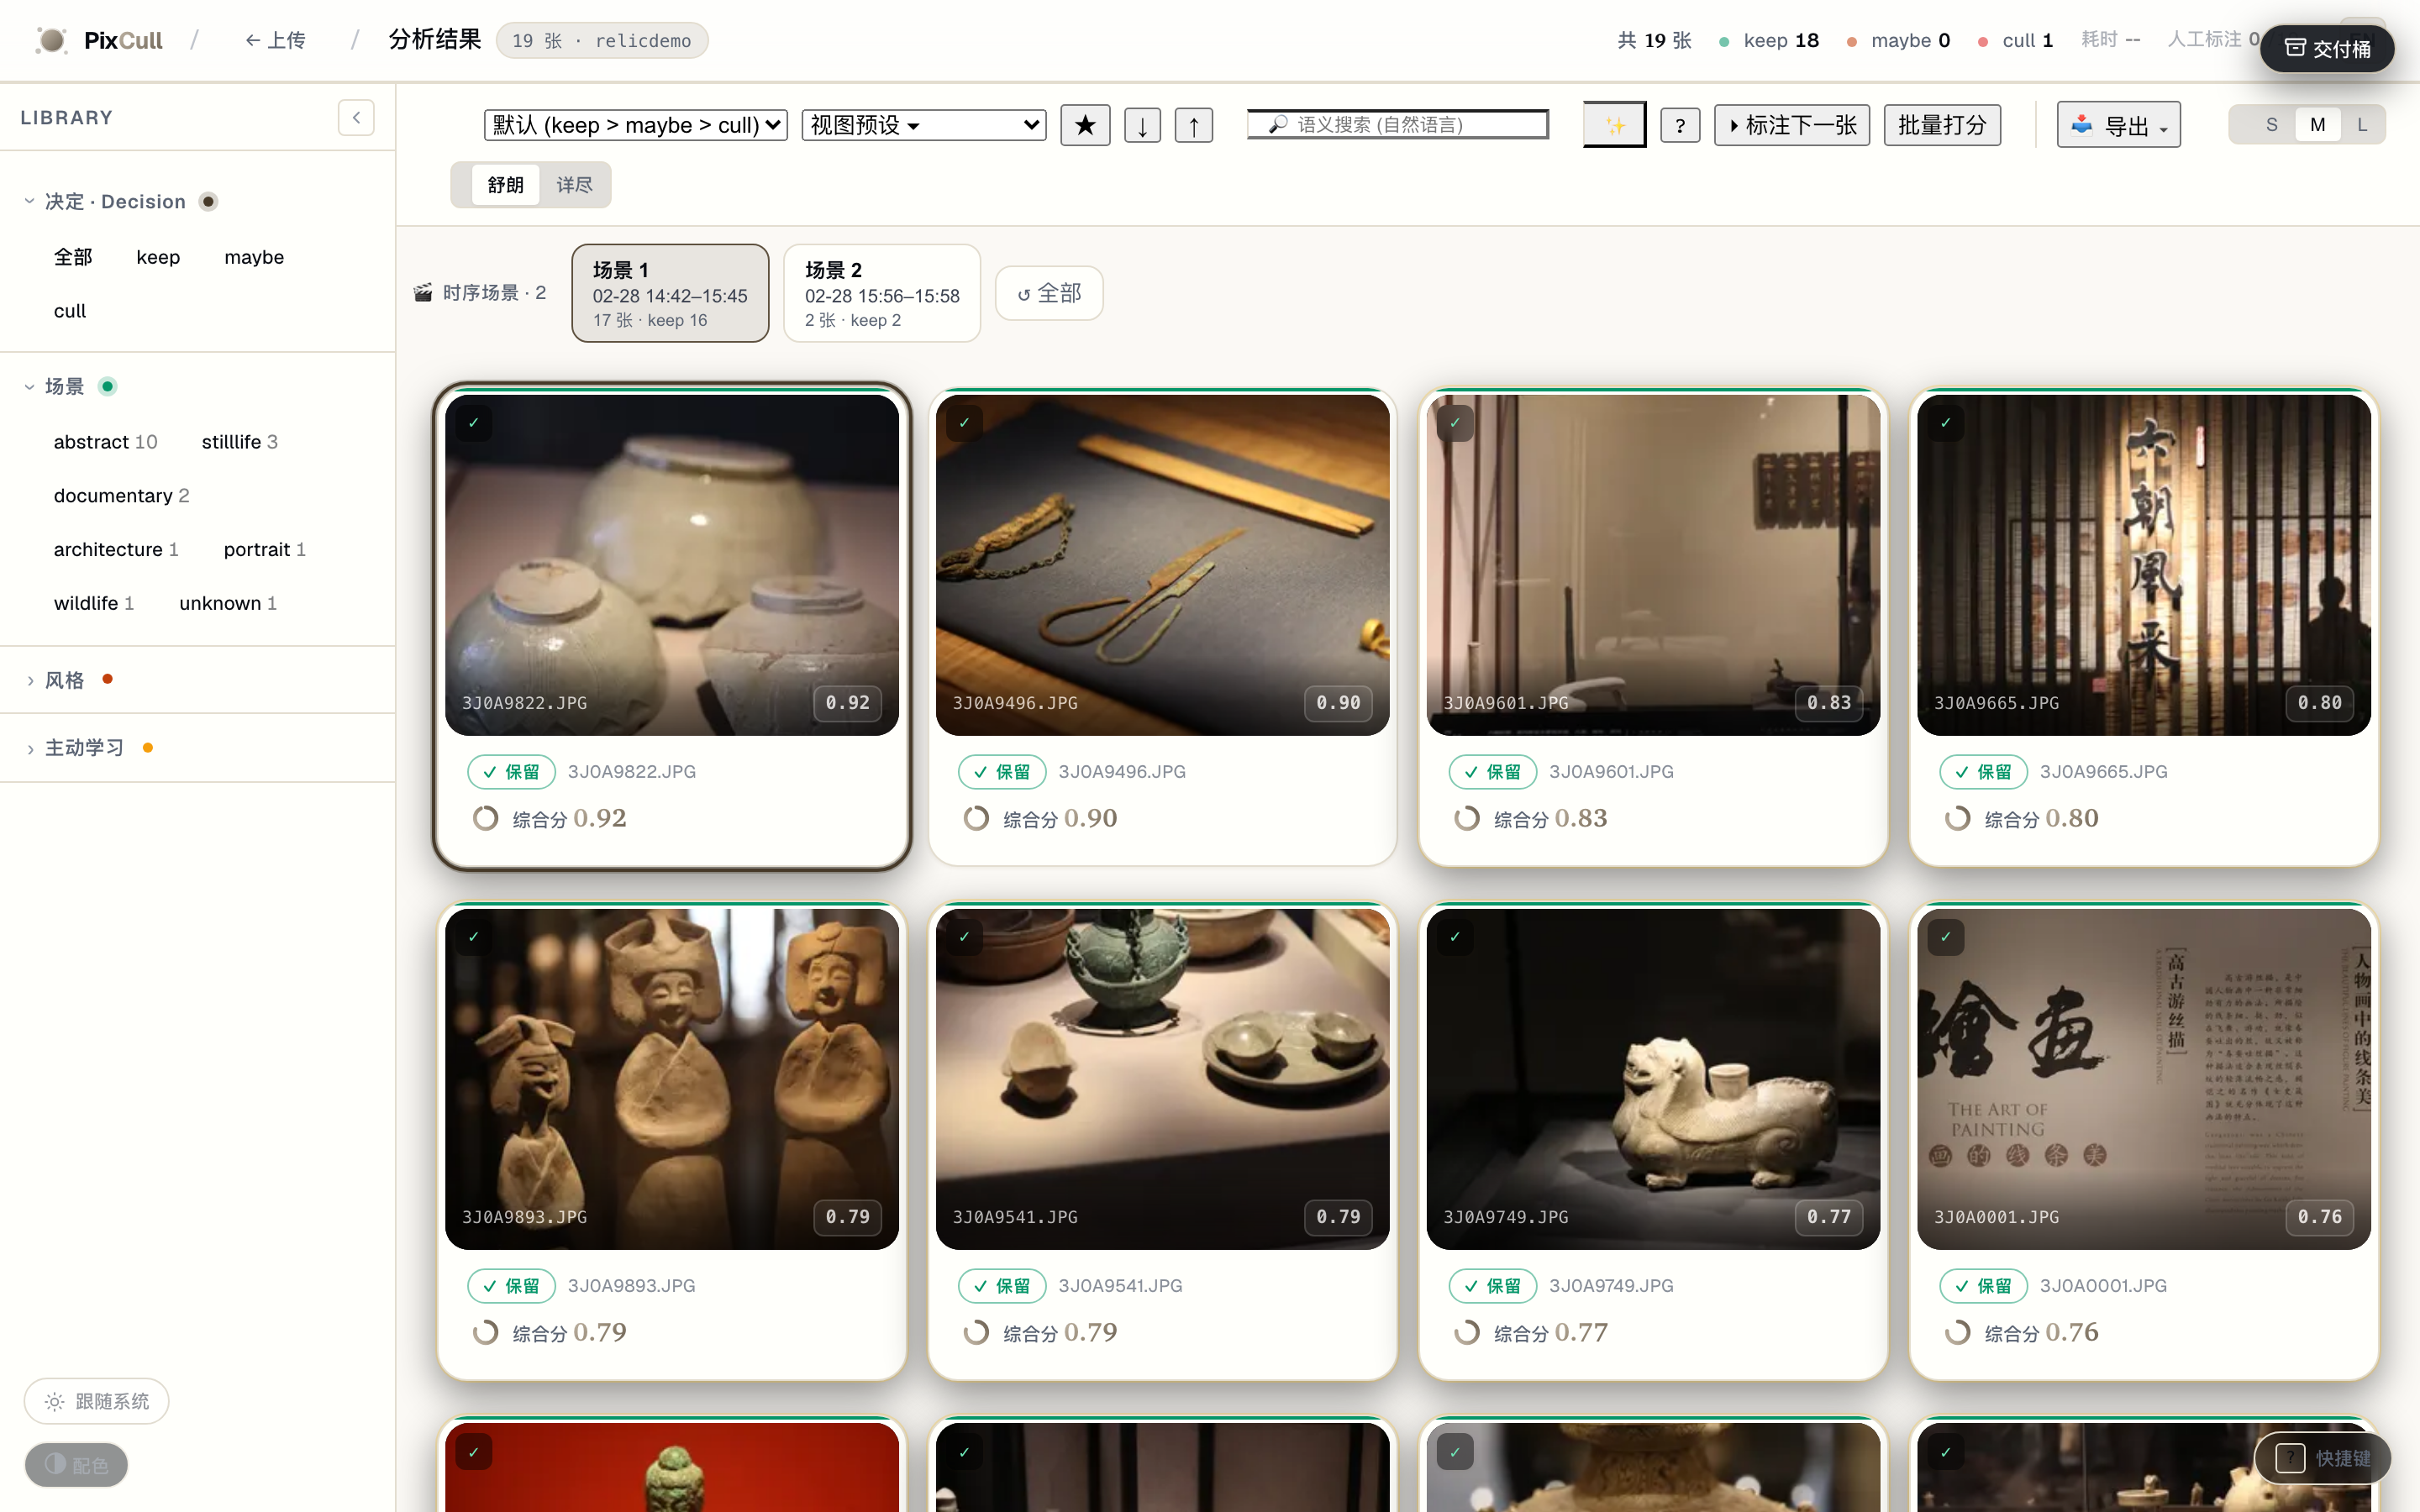
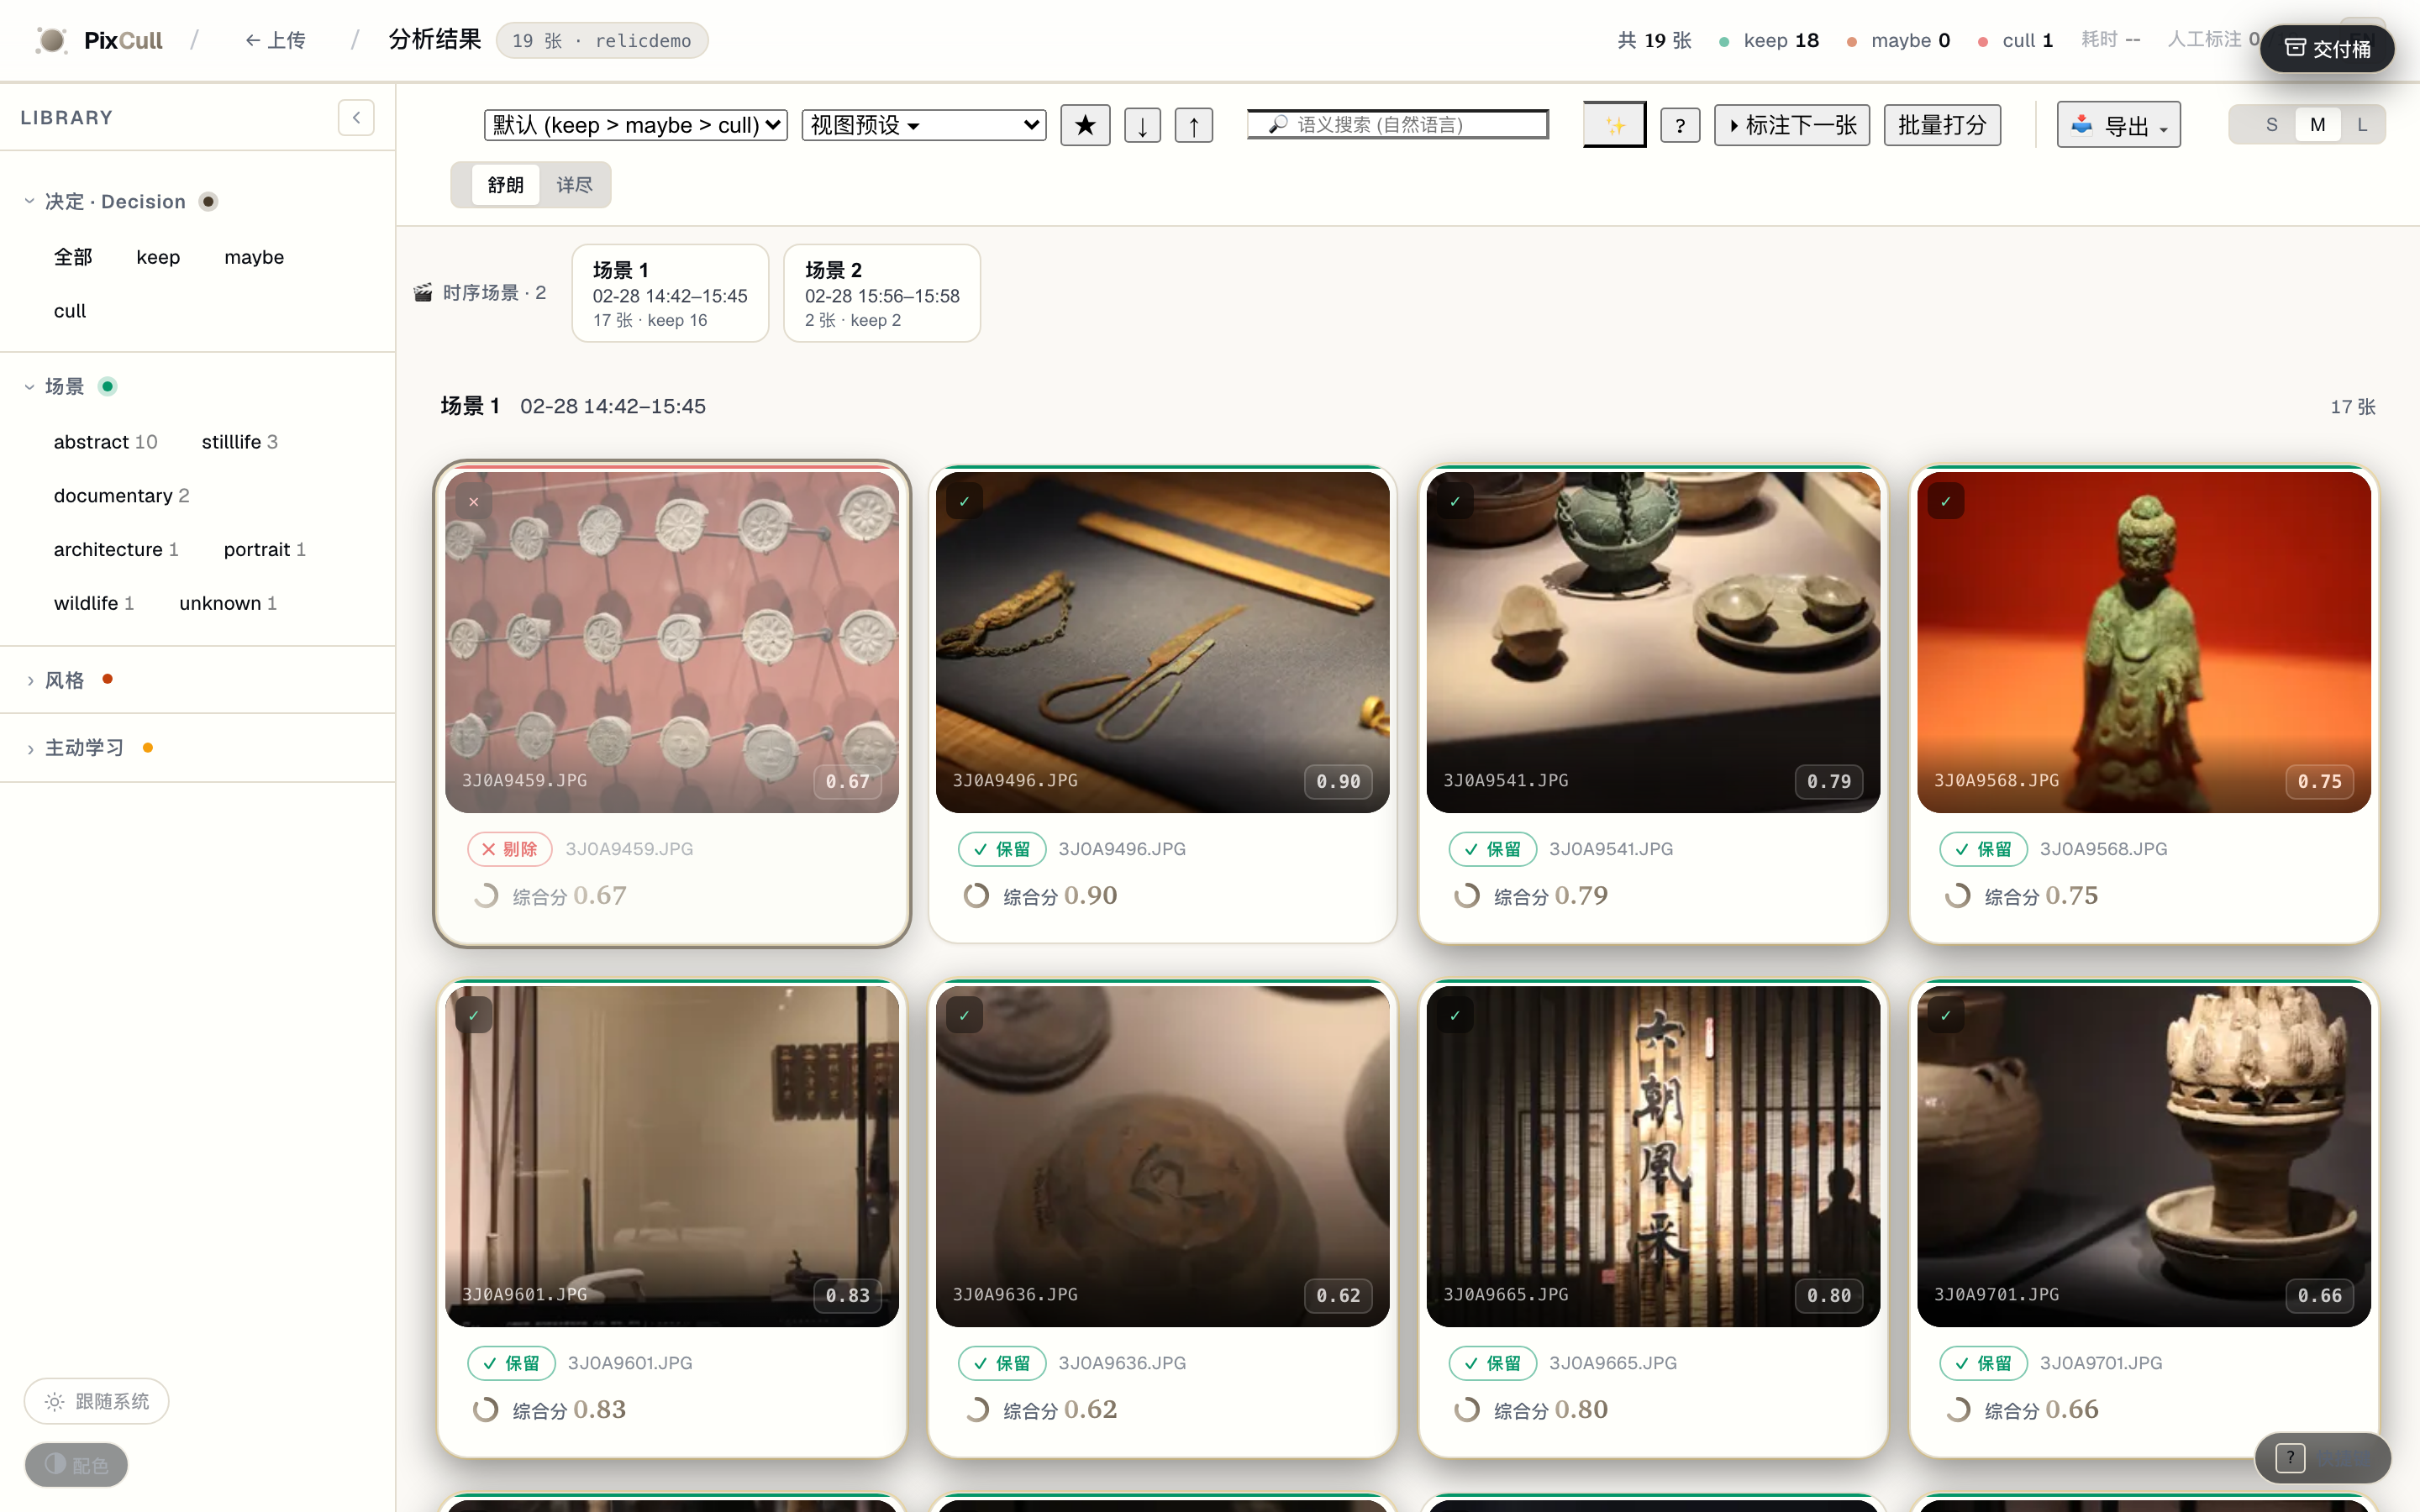
v2.10: Scenes inline section headers + face-closeup locate + share-title fix
- Scenes (v2.9-P1-1 follow-through): the navigator now also renders INLINE
  time-ordered section headers in the grid (small-batch <=200; larger keep the
  navigator) via _applySceneSections. Updated screenshot 20.
- Face Close-ups: clicking a face crop pulses a locator box over that face on
  the main image (_locateFace: normalized bbox -> object-fit:contain mapping).
- Fix stale share-portfolio title: the 06 screenshot + capture script baked
  "霞浦风光 / 风光摄影" over what is now the museum-artifact demo run; relabelled
  to 文物摄影 / 博物馆文物 and regenerated 06 on relicdemo (reported mismatch).
- README + modelscope/README: v2.10 What's-new entry.

Frontend edits in templates/src/ + make results-html (golden green). Gate: 90
files OK / 0 fail. Slider + baby close-up screenshots deferred — the headless
capture tasks are repeatedly killed by the host environment; both features are
verified (near_dups endpoint + monotonic grouping; faces endpoint + detection +
locate geometry) and README-described.

diff --git a/pixcull/report/templates/results.html b/pixcull/report/templates/results.html
@@ -2101,6 +2101,25 @@
       gap: var(--space-3);
       padding: var(--space-5) var(--space-6) var(--space-8);
     }
+    /* v2.10-P0-1 — inline Scenes section header: spans the full grid row,
+       introduces each time-ordered scene. Editorial-warm, restrained. */
+    #grid .scene-section-header {
+      grid-column: 1 / -1;
+      display: flex; align-items: baseline; gap: 12px;
+      padding: 16px 2px 4px; margin-top: 6px;
+      border-top: 1px solid var(--border);
+    }
+    #grid .scene-section-header:first-child { border-top: 0; margin-top: 0; padding-top: 2px; }
+    #grid .scene-section-header .ssh-i {
+      font-size: 13px; font-weight: 600; color: var(--fg); letter-spacing: .02em;
+    }
+    #grid .scene-section-header .ssh-r {
+      font-size: 12px; color: var(--fg-2); font-variant-numeric: tabular-nums;
+    }
+    #grid .scene-section-header .ssh-n {
+      margin-left: auto; font-size: 11px; color: var(--muted);
+      font-variant-numeric: tabular-nums;
+    }
     /* v0.4 — refreshed card visual.  Bigger radius for a softer
        feel, fuller shadow ramp on hover (matching elevation
        hierarchy from the new shadow tokens), and the decision-
@@ -4790,6 +4809,27 @@
       border: 1px solid var(--border-hi);
       box-shadow: 0 4px 14px rgba(0,0,0,0.5);
       background: var(--bg-card);
+      cursor: pointer; transition: border-color 120ms, transform 120ms;
+    }
+    .lightbox .lb-faces .face-crop:hover,
+    .lightbox .lb-faces .face-crop:focus-visible {
+      border-color: var(--accent-hi); transform: translateY(-1px); outline: none;
+    }
+    /* v2.10-P0-2 — face locator: a pulsing box drawn over the main image at the
+       clicked face's region, mapping the normalized bbox onto the display rect. */
+    .face-locator {
+      position: fixed; z-index: 50; pointer-events: none; opacity: 0;
+      border: 2px solid var(--accent-hi); border-radius: 8px;
+    }
+    .face-locator.pulse { animation: face-locate 1.4s var(--ease-out, ease-out) 1; }
+    @keyframes face-locate {
+      0%   { opacity: 0; transform: scale(1.18); }
+      18%  { opacity: 1; transform: scale(1); box-shadow: 0 0 0 3px var(--accent-soft); }
+      70%  { opacity: 1; box-shadow: 0 0 0 3px var(--accent-soft); }
+      100% { opacity: 0; }
+    }
+    @media (prefers-reduced-motion: reduce) {
+      .face-locator.pulse { animation: none; opacity: 0; }
     }
     .lightbox .lb-faces .face-conf {
       font-size: 10px; color: var(--muted); text-align: center;
@@ -8251,7 +8291,8 @@
     const finish = () => {
       filterState.scenesView = true;
       btn.classList.add("active");
-      _renderSceneNav();
+      render();          // v2.10-P0-1 — repaint so _applySceneSections inserts the inline headers
+      _renderSceneNav(); // navigator strip (separate element, survives the grid repaint)
       if (!(_SCENES && _SCENES.length)) showToast("未能按时间分出场景(可能缺少 EXIF 拍摄时间)");
     };
     if (_SCENES) { finish(); return; }
@@ -8261,6 +8302,50 @@
       .then(d => { _SCENES = d.scenes || []; finish(); })
       .catch(err => showToast("场景加载失败: " + err.message, "error"))
       .finally(() => { btn.style.opacity = ""; });
+  }
+
+  // v2.10-P0-1 — Scenes INLINE section headers. The v2.9 navigator filters to
+  // one scene; this groups the whole grid into time-ordered sections with a
+  // header per scene (the deferred "in-grid sections" from the v2.9 audit).
+  // Runs only on the synchronous small-batch paint (<=200 cards, fully
+  // materialized); larger batches keep the navigator-only behaviour (this is a
+  // no-op when card placeholders exist). Cards are MOVED (not recreated), so
+  // their listeners survive.
+  function _applySceneSections() {
+    grid.classList.remove("grid--scenes");
+    if (!filterState.scenesView || filterState.sceneFilter) return;
+    if (!_SCENES || _SCENES.length < 2) return;
+    if (grid.querySelector(".card-placeholder")) return;   // huge batch → navigator only
+    const cards = Array.from(grid.querySelectorAll(".card"));
+    if (!cards.length) return;
+    const byFn = new Map(cards.map(c => [c.dataset.fn, c]));
+    const placed = new Set();
+    const frag = document.createDocumentFragment();
+    let made = 0;
+    const _hdr = (idx, range, n) => {
+      const h = document.createElement("div");
+      h.className = "scene-section-header";
+      h.innerHTML =
+        `<span class="ssh-i">${idx}</span>` +
+        (range ? `<span class="ssh-r">${esc(range)}</span>` : "") +
+        `<span class="ssh-n">${n} 张</span>`;
+      return h;
+    };
+    for (const s of _SCENES) {
+      const sceneCards = (s.filenames || []).map(fn => byFn.get(fn)).filter(Boolean);
+      if (!sceneCards.length) continue;            // all of this scene filtered out
+      frag.appendChild(_hdr(`场景 ${s.index + 1}`, _sceneRangeLabel(s), sceneCards.length));
+      sceneCards.forEach(c => { frag.appendChild(c); placed.add(c.dataset.fn); });
+      made++;
+    }
+    const leftover = cards.filter(c => !placed.has(c.dataset.fn));
+    if (leftover.length) {
+      frag.appendChild(_hdr("其他", null, leftover.length));
+      leftover.forEach(c => frag.appendChild(c));
+    }
+    if (!made) return;
+    grid.appendChild(frag);          // moves cards into scene order + inserts headers
+    grid.classList.add("grid--scenes");
   }
 
   // P2.4 — active-learning filter. Click → fetch top-N queue from
@@ -9151,6 +9236,7 @@
     } else if (segments.length <= BATCH_THRESHOLD) {
       // Small batch: one shot, fastest path.
       grid.innerHTML = html;
+      _applySceneSections();   // v2.10-P0-1 — inline time-grouped sections (small batch only)
     } else if (segments.length <= HUGE_THRESHOLD) {
       // Mid batch: paint the above-fold portion, then stream the rest
       // in chunks so the user can scroll/click immediately.
@@ -9636,12 +9722,61 @@
     const countEl = document.getElementById("lbFacesCount");
     if (!grp || !rail) return;
     rail.innerHTML = (faces || []).map(f =>
-      `<img class="face-crop" role="listitem" loading="lazy" src="${f.crop}" ` +
-      `alt="人脸特写 ${f.i + 1}" title="人脸 ${f.i + 1} · 置信度 ${Math.round((f.conf || 0) * 100)}%">`
+      `<img class="face-crop" role="listitem" tabindex="0" loading="lazy" src="${f.crop}" ` +
+      `data-bbox="${(f.bbox || []).join(',')}" ` +
+      `alt="人脸特写 ${f.i + 1}" title="人脸 ${f.i + 1} · 置信度 ${Math.round((f.conf || 0) * 100)}% — 点击在主图上定位">`
     ).join("");
     const has = !!(faces && faces.length);
     grp.hidden = !has;
     if (has && countEl) countEl.textContent = String(faces.length);
+  }
+
+  // v2.10-P0-2 — click a face crop → pulse a locator box over that face on the
+  // main image (Narrative-style "find this face"). Maps the normalized bbox
+  // onto the object-fit:contain display rect. Only in fit mode (zoom/rotate
+  // change the mapping); silently no-ops otherwise.
+  function _locateFace(bboxStr) {
+    const img = lbImg;
+    if (!img || !img.naturalWidth) return;
+    if (typeof _lbZoom !== "undefined" && _lbZoom && _lbZoom.mode !== "fit") return;
+    const bb = String(bboxStr || "").split(",").map(parseFloat);
+    if (bb.length < 4 || bb.some(v => Number.isNaN(v))) return;
+    const rect = img.getBoundingClientRect();
+    const nW = img.naturalWidth, nH = img.naturalHeight;
+    const scale = Math.min(rect.width / nW, rect.height / nH);
+    const dispW = nW * scale, dispH = nH * scale;
+    const offX = rect.left + (rect.width - dispW) / 2;
+    const offY = rect.top + (rect.height - dispH) / 2;
+    const [x1, y1, x2, y2] = bb;
+    let box = document.getElementById("lbFaceLocator");
+    if (!box) {
+      box = document.createElement("div");
+      box.id = "lbFaceLocator";
+      box.className = "face-locator";
+      document.body.appendChild(box);
+    }
+    box.style.left = (offX + x1 * dispW) + "px";
+    box.style.top = (offY + y1 * dispH) + "px";
+    box.style.width = ((x2 - x1) * dispW) + "px";
+    box.style.height = ((y2 - y1) * dispH) + "px";
+    box.classList.remove("pulse");
+    void box.offsetWidth;            // reflow → restart the pulse animation
+    box.classList.add("pulse");
+  }
+  {
+    const _rail = document.getElementById("lbFaces");
+    if (_rail) {
+      _rail.addEventListener("click", e => {
+        const crop = e.target.closest(".face-crop");
+        if (crop) _locateFace(crop.dataset.bbox);
+      });
+      _rail.addEventListener("keydown", e => {
+        if ((e.key === "Enter" || e.key === " ") && e.target.classList.contains("face-crop")) {
+          e.preventDefault();
+          _locateFace(e.target.dataset.bbox);
+        }
+      });
+    }
   }
   function _loadLbFaces(fn) {
     if (_lbFacesCache.has(fn)) { _renderLbFaces(fn, _lbFacesCache.get(fn)); return; }

diff --git a/pixcull/report/templates/src/results.js b/pixcull/report/templates/src/results.js
@@ -1325,7 +1325,8 @@
     const finish = () => {
       filterState.scenesView = true;
       btn.classList.add("active");
-      _renderSceneNav();
+      render();          // v2.10-P0-1 — repaint so _applySceneSections inserts the inline headers
+      _renderSceneNav(); // navigator strip (separate element, survives the grid repaint)
       if (!(_SCENES && _SCENES.length)) showToast("未能按时间分出场景(可能缺少 EXIF 拍摄时间)");
     };
     if (_SCENES) { finish(); return; }
@@ -1335,6 +1336,50 @@
       .then(d => { _SCENES = d.scenes || []; finish(); })
       .catch(err => showToast("场景加载失败: " + err.message, "error"))
       .finally(() => { btn.style.opacity = ""; });
+  }
+
+  // v2.10-P0-1 — Scenes INLINE section headers. The v2.9 navigator filters to
+  // one scene; this groups the whole grid into time-ordered sections with a
+  // header per scene (the deferred "in-grid sections" from the v2.9 audit).
+  // Runs only on the synchronous small-batch paint (<=200 cards, fully
+  // materialized); larger batches keep the navigator-only behaviour (this is a
+  // no-op when card placeholders exist). Cards are MOVED (not recreated), so
+  // their listeners survive.
+  function _applySceneSections() {
+    grid.classList.remove("grid--scenes");
+    if (!filterState.scenesView || filterState.sceneFilter) return;
+    if (!_SCENES || _SCENES.length < 2) return;
+    if (grid.querySelector(".card-placeholder")) return;   // huge batch → navigator only
+    const cards = Array.from(grid.querySelectorAll(".card"));
+    if (!cards.length) return;
+    const byFn = new Map(cards.map(c => [c.dataset.fn, c]));
+    const placed = new Set();
+    const frag = document.createDocumentFragment();
+    let made = 0;
+    const _hdr = (idx, range, n) => {
+      const h = document.createElement("div");
+      h.className = "scene-section-header";
+      h.innerHTML =
+        `<span class="ssh-i">${idx}</span>` +
+        (range ? `<span class="ssh-r">${esc(range)}</span>` : "") +
+        `<span class="ssh-n">${n} 张</span>`;
+      return h;
+    };
+    for (const s of _SCENES) {
+      const sceneCards = (s.filenames || []).map(fn => byFn.get(fn)).filter(Boolean);
+      if (!sceneCards.length) continue;            // all of this scene filtered out
+      frag.appendChild(_hdr(`场景 ${s.index + 1}`, _sceneRangeLabel(s), sceneCards.length));
+      sceneCards.forEach(c => { frag.appendChild(c); placed.add(c.dataset.fn); });
+      made++;
+    }
+    const leftover = cards.filter(c => !placed.has(c.dataset.fn));
+    if (leftover.length) {
+      frag.appendChild(_hdr("其他", null, leftover.length));
+      leftover.forEach(c => frag.appendChild(c));
+    }
+    if (!made) return;
+    grid.appendChild(frag);          // moves cards into scene order + inserts headers
+    grid.classList.add("grid--scenes");
   }
 
   // P2.4 — active-learning filter. Click → fetch top-N queue from
@@ -2225,6 +2270,7 @@
     } else if (segments.length <= BATCH_THRESHOLD) {
       // Small batch: one shot, fastest path.
       grid.innerHTML = html;
+      _applySceneSections();   // v2.10-P0-1 — inline time-grouped sections (small batch only)
     } else if (segments.length <= HUGE_THRESHOLD) {
       // Mid batch: paint the above-fold portion, then stream the rest
       // in chunks so the user can scroll/click immediately.
@@ -2710,12 +2756,61 @@
     const countEl = document.getElementById("lbFacesCount");
     if (!grp || !rail) return;
     rail.innerHTML = (faces || []).map(f =>
-      `<img class="face-crop" role="listitem" loading="lazy" src="${f.crop}" ` +
-      `alt="人脸特写 ${f.i + 1}" title="人脸 ${f.i + 1} · 置信度 ${Math.round((f.conf || 0) * 100)}%">`
+      `<img class="face-crop" role="listitem" tabindex="0" loading="lazy" src="${f.crop}" ` +
+      `data-bbox="${(f.bbox || []).join(',')}" ` +
+      `alt="人脸特写 ${f.i + 1}" title="人脸 ${f.i + 1} · 置信度 ${Math.round((f.conf || 0) * 100)}% — 点击在主图上定位">`
     ).join("");
     const has = !!(faces && faces.length);
     grp.hidden = !has;
     if (has && countEl) countEl.textContent = String(faces.length);
+  }
+
+  // v2.10-P0-2 — click a face crop → pulse a locator box over that face on the
+  // main image (Narrative-style "find this face"). Maps the normalized bbox
+  // onto the object-fit:contain display rect. Only in fit mode (zoom/rotate
+  // change the mapping); silently no-ops otherwise.
+  function _locateFace(bboxStr) {
+    const img = lbImg;
+    if (!img || !img.naturalWidth) return;
+    if (typeof _lbZoom !== "undefined" && _lbZoom && _lbZoom.mode !== "fit") return;
+    const bb = String(bboxStr || "").split(",").map(parseFloat);
+    if (bb.length < 4 || bb.some(v => Number.isNaN(v))) return;
+    const rect = img.getBoundingClientRect();
+    const nW = img.naturalWidth, nH = img.naturalHeight;
+    const scale = Math.min(rect.width / nW, rect.height / nH);
+    const dispW = nW * scale, dispH = nH * scale;
+    const offX = rect.left + (rect.width - dispW) / 2;
+    const offY = rect.top + (rect.height - dispH) / 2;
+    const [x1, y1, x2, y2] = bb;
+    let box = document.getElementById("lbFaceLocator");
+    if (!box) {
+      box = document.createElement("div");
+      box.id = "lbFaceLocator";
+      box.className = "face-locator";
+      document.body.appendChild(box);
+    }
+    box.style.left = (offX + x1 * dispW) + "px";
+    box.style.top = (offY + y1 * dispH) + "px";
+    box.style.width = ((x2 - x1) * dispW) + "px";
+    box.style.height = ((y2 - y1) * dispH) + "px";
+    box.classList.remove("pulse");
+    void box.offsetWidth;            // reflow → restart the pulse animation
+    box.classList.add("pulse");
+  }
+  {
+    const _rail = document.getElementById("lbFaces");
+    if (_rail) {
+      _rail.addEventListener("click", e => {
+        const crop = e.target.closest(".face-crop");
+        if (crop) _locateFace(crop.dataset.bbox);
+      });
+      _rail.addEventListener("keydown", e => {
+        if ((e.key === "Enter" || e.key === " ") && e.target.classList.contains("face-crop")) {
+          e.preventDefault();
+          _locateFace(e.target.dataset.bbox);
+        }
+      });
+    }
   }
   function _loadLbFaces(fn) {
     if (_lbFacesCache.has(fn)) { _renderLbFaces(fn, _lbFacesCache.get(fn)); return; }

diff --git a/pixcull/report/templates/src/results.css b/pixcull/report/templates/src/results.css
@@ -2082,6 +2082,25 @@
       gap: var(--space-3);
       padding: var(--space-5) var(--space-6) var(--space-8);
     }
+    /* v2.10-P0-1 — inline Scenes section header: spans the full grid row,
+       introduces each time-ordered scene. Editorial-warm, restrained. */
+    #grid .scene-section-header {
+      grid-column: 1 / -1;
+      display: flex; align-items: baseline; gap: 12px;
+      padding: 16px 2px 4px; margin-top: 6px;
+      border-top: 1px solid var(--border);
+    }
+    #grid .scene-section-header:first-child { border-top: 0; margin-top: 0; padding-top: 2px; }
+    #grid .scene-section-header .ssh-i {
+      font-size: 13px; font-weight: 600; color: var(--fg); letter-spacing: .02em;
+    }
+    #grid .scene-section-header .ssh-r {
+      font-size: 12px; color: var(--fg-2); font-variant-numeric: tabular-nums;
+    }
+    #grid .scene-section-header .ssh-n {
+      margin-left: auto; font-size: 11px; color: var(--muted);
+      font-variant-numeric: tabular-nums;
+    }
     /* v0.4 — refreshed card visual.  Bigger radius for a softer
        feel, fuller shadow ramp on hover (matching elevation
        hierarchy from the new shadow tokens), and the decision-
@@ -4771,6 +4790,27 @@
       border: 1px solid var(--border-hi);
       box-shadow: 0 4px 14px rgba(0,0,0,0.5);
       background: var(--bg-card);
+      cursor: pointer; transition: border-color 120ms, transform 120ms;
+    }
+    .lightbox .lb-faces .face-crop:hover,
+    .lightbox .lb-faces .face-crop:focus-visible {
+      border-color: var(--accent-hi); transform: translateY(-1px); outline: none;
+    }
+    /* v2.10-P0-2 — face locator: a pulsing box drawn over the main image at the
+       clicked face's region, mapping the normalized bbox onto the display rect. */
+    .face-locator {
+      position: fixed; z-index: 50; pointer-events: none; opacity: 0;
+      border: 2px solid var(--accent-hi); border-radius: 8px;
+    }
+    .face-locator.pulse { animation: face-locate 1.4s var(--ease-out, ease-out) 1; }
+    @keyframes face-locate {
+      0%   { opacity: 0; transform: scale(1.18); }
+      18%  { opacity: 1; transform: scale(1); box-shadow: 0 0 0 3px var(--accent-soft); }
+      70%  { opacity: 1; box-shadow: 0 0 0 3px var(--accent-soft); }
+      100% { opacity: 0; }
+    }
+    @media (prefers-reduced-motion: reduce) {
+      .face-locator.pulse { animation: none; opacity: 0; }
     }
     .lightbox .lb-faces .face-conf {
       font-size: 10px; color: var(--muted); text-align: center;

diff --git a/README.md b/README.md
@@ -52,6 +52,12 @@
 
 ## What's new
 
+**v2.10** — polish on the v2.9 transparency slices: **Scenes** now also renders
+**inline section headers** in the grid (time-ordered, header per scene — not just
+the navigator strip), and a **face Close-up click locates that face on the main
+photo** (a pulsing box maps the crop back onto the full frame). Small-batch grids
+(≤200) get the inline sections; larger keep the navigator.
+
 **v2.9** — **transparency + content-first viewing** (the deferred competitor
 patterns from the v2.8 reflection — see [`docs/ROADMAP-v2.9-charter.md`](docs/ROADMAP-v2.9-charter.md)
 and [`docs/DESIGN-AUDIT-2029Q3.md`](docs/DESIGN-AUDIT-2029Q3.md)): a

diff --git a/modelscope/README.md b/modelscope/README.md
@@ -54,8 +54,11 @@ tasks:
 完整源码 + iOS 伴侣 App + Lightroom 插件,均在 GitHub:
 **[github.com/ChrisChen667788/pixcull](https://github.com/ChrisChen667788/pixcull)**
 
-## v0.7 → v2.9 主要更新
+## v0.7 → v2.10 主要更新
 
+- **v2.10**:v2.9 透明切片的打磨 —— **Scenes 网格内联分段 header**(时序、每段
+  一个 header,不止顶部导航条;小批量 ≤200 张走内联,更大保留导航条)· **人脸
+  Close-up 点击在主图上定位**(脉冲框把裁切映射回全幅画面)
 - **v2.9**:**智能透明 + 内容优先观看**(承接 v2.8 反思搁置的竞品模式) —
   **相似度滑块**把近重复折叠从固定阈值黑箱变玻璃箱(拖 0.80–0.99 实时重组,
   对标 Peakto)· lightbox **人脸 Close-ups 轨**显示每张脸的放大裁切,无需手动